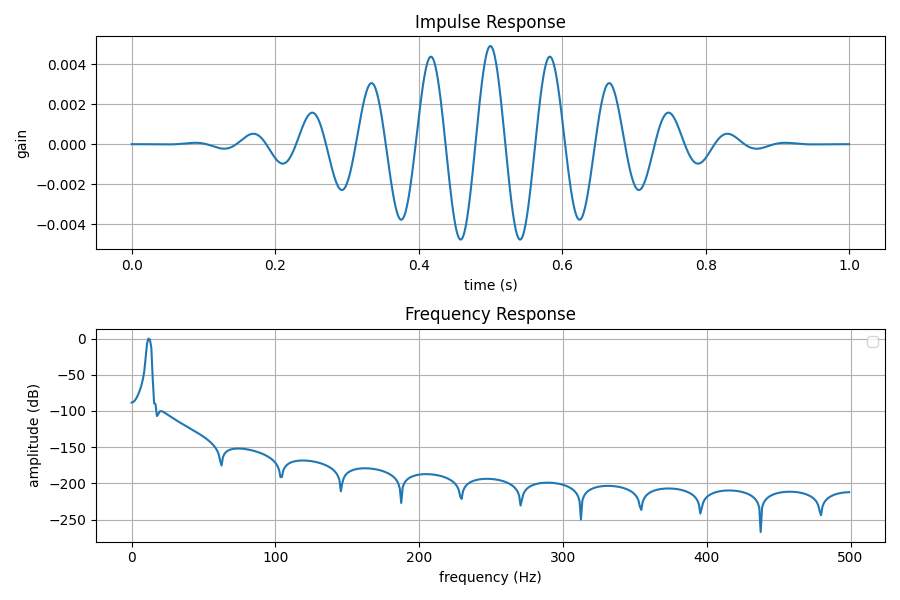
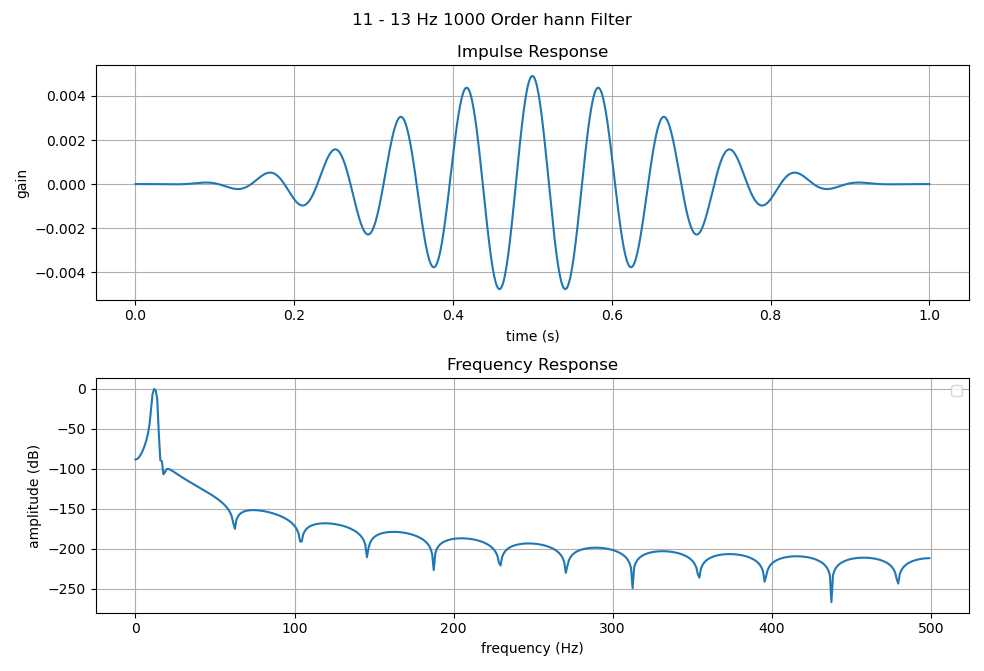
Added subplot title

Changed region(s): [[0.0, 0.0, 0.9956, 0.96], [0.4978, 0.96, 0.5911, 0.99], [0.8711, 0.21, 0.9022, 0.24]]

diff --git a/test_filter_ssvep_data.py b/test_filter_ssvep_data.py
@@ -43,7 +43,7 @@ filter?  B) Experiment with higher and lower order filters. Describe how
 changing the order changes the frequency and impulse response of the filter. 
 """
 
-filter_coefficients = filter_ssvep_data.make_bandpass_filter(low_cutoff=11, high_cutoff=13, filter_type='hann', filter_order=1000, fs=fs)
+filter_coefficients = filter_ssvep_data.make_bandpass_filter(low_cutoff=11, high_cutoff=13, filter_type='hann', filter_order=10000, fs=fs)
 
 # %% Part 3: Filter the EEG Signals
 """

diff --git a/filter_ssvep_data.py b/filter_ssvep_data.py
@@ -57,6 +57,8 @@ def make_bandpass_filter(low_cutoff, high_cutoff, filter_type='hann', filter_ord
     plt.figure(1, clear=True, figsize=(9, 6))
 
     ax1 = plt.subplot(2,1,1)
+    
+    plt.suptitle(f'{low_cutoff} - {high_cutoff} Hz {filter_order} Order {filter_type} Filter')
 
     ax1.set_title('Impulse Response')
     ax1.set_xlabel("time (s)")
